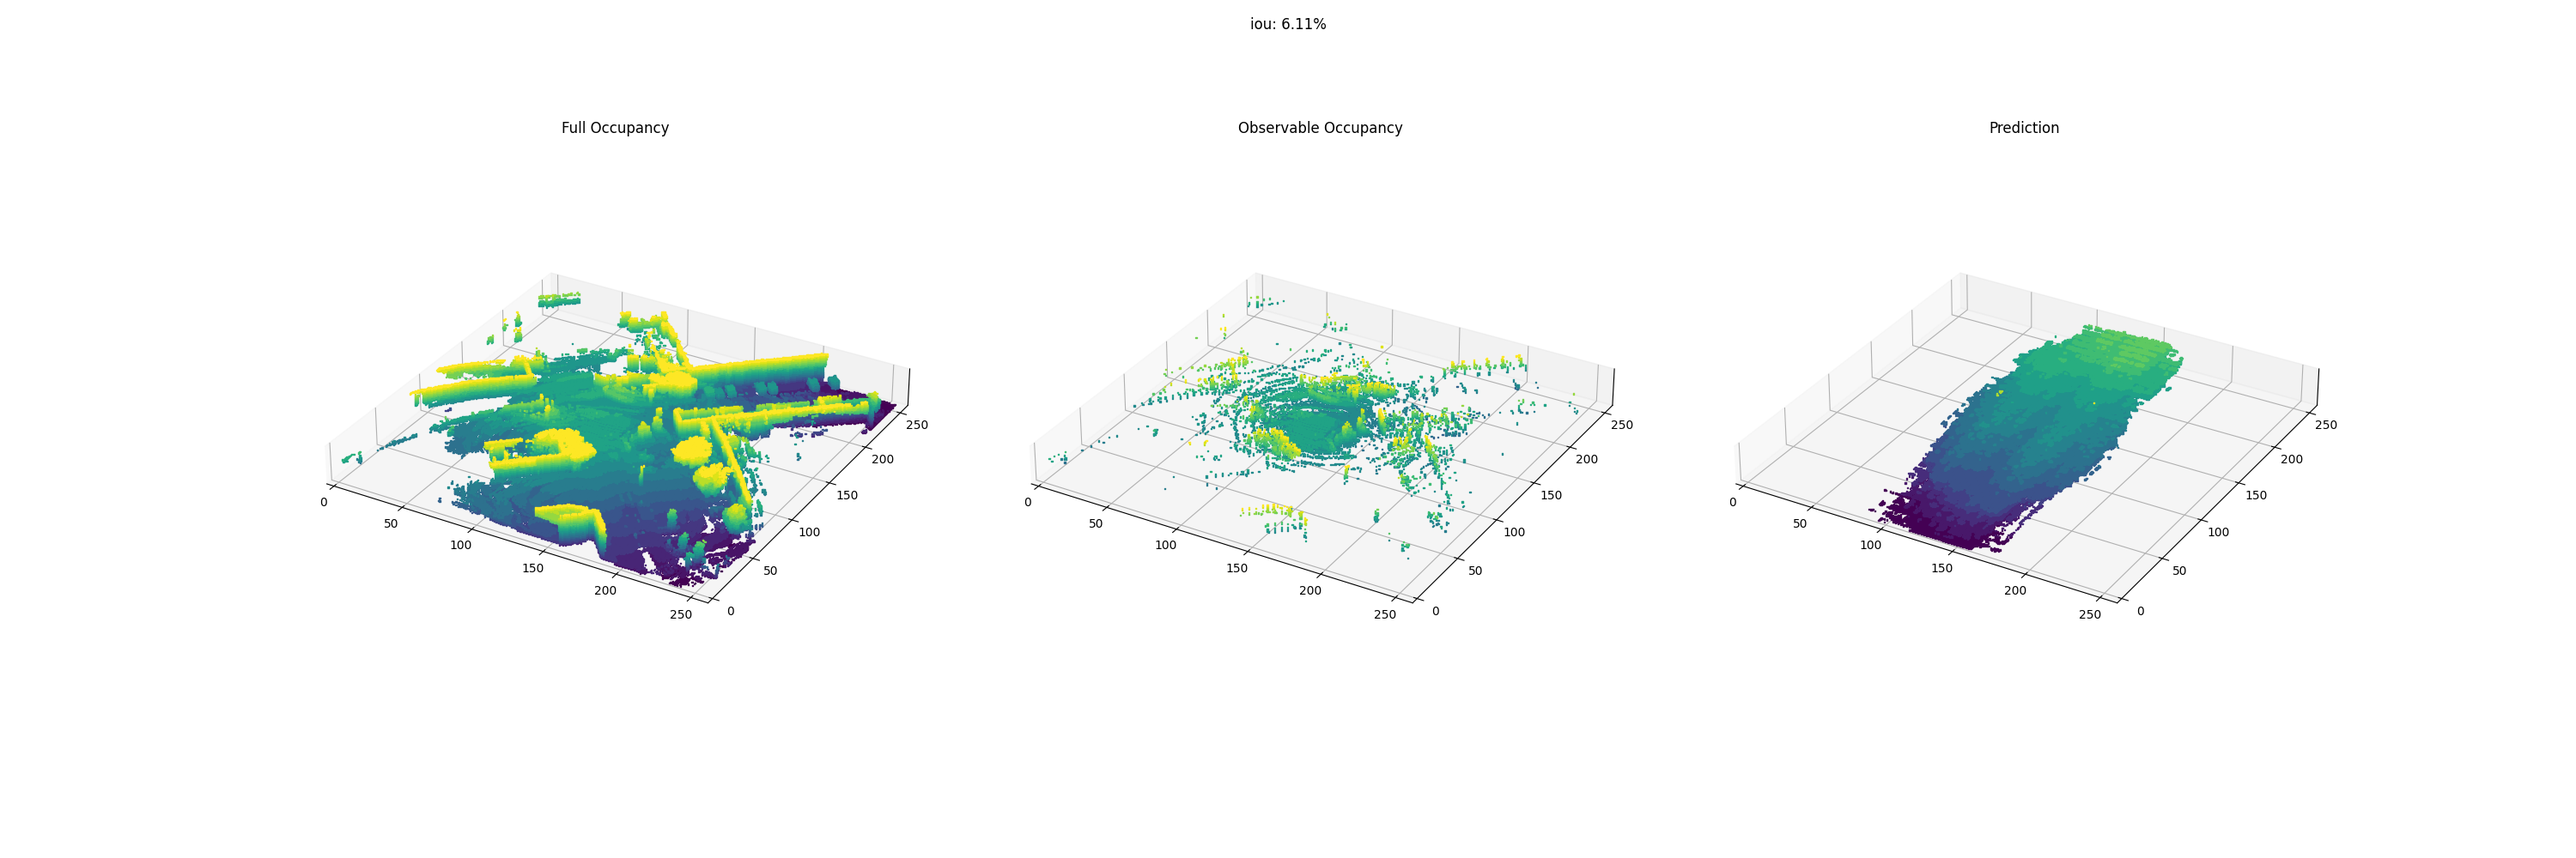
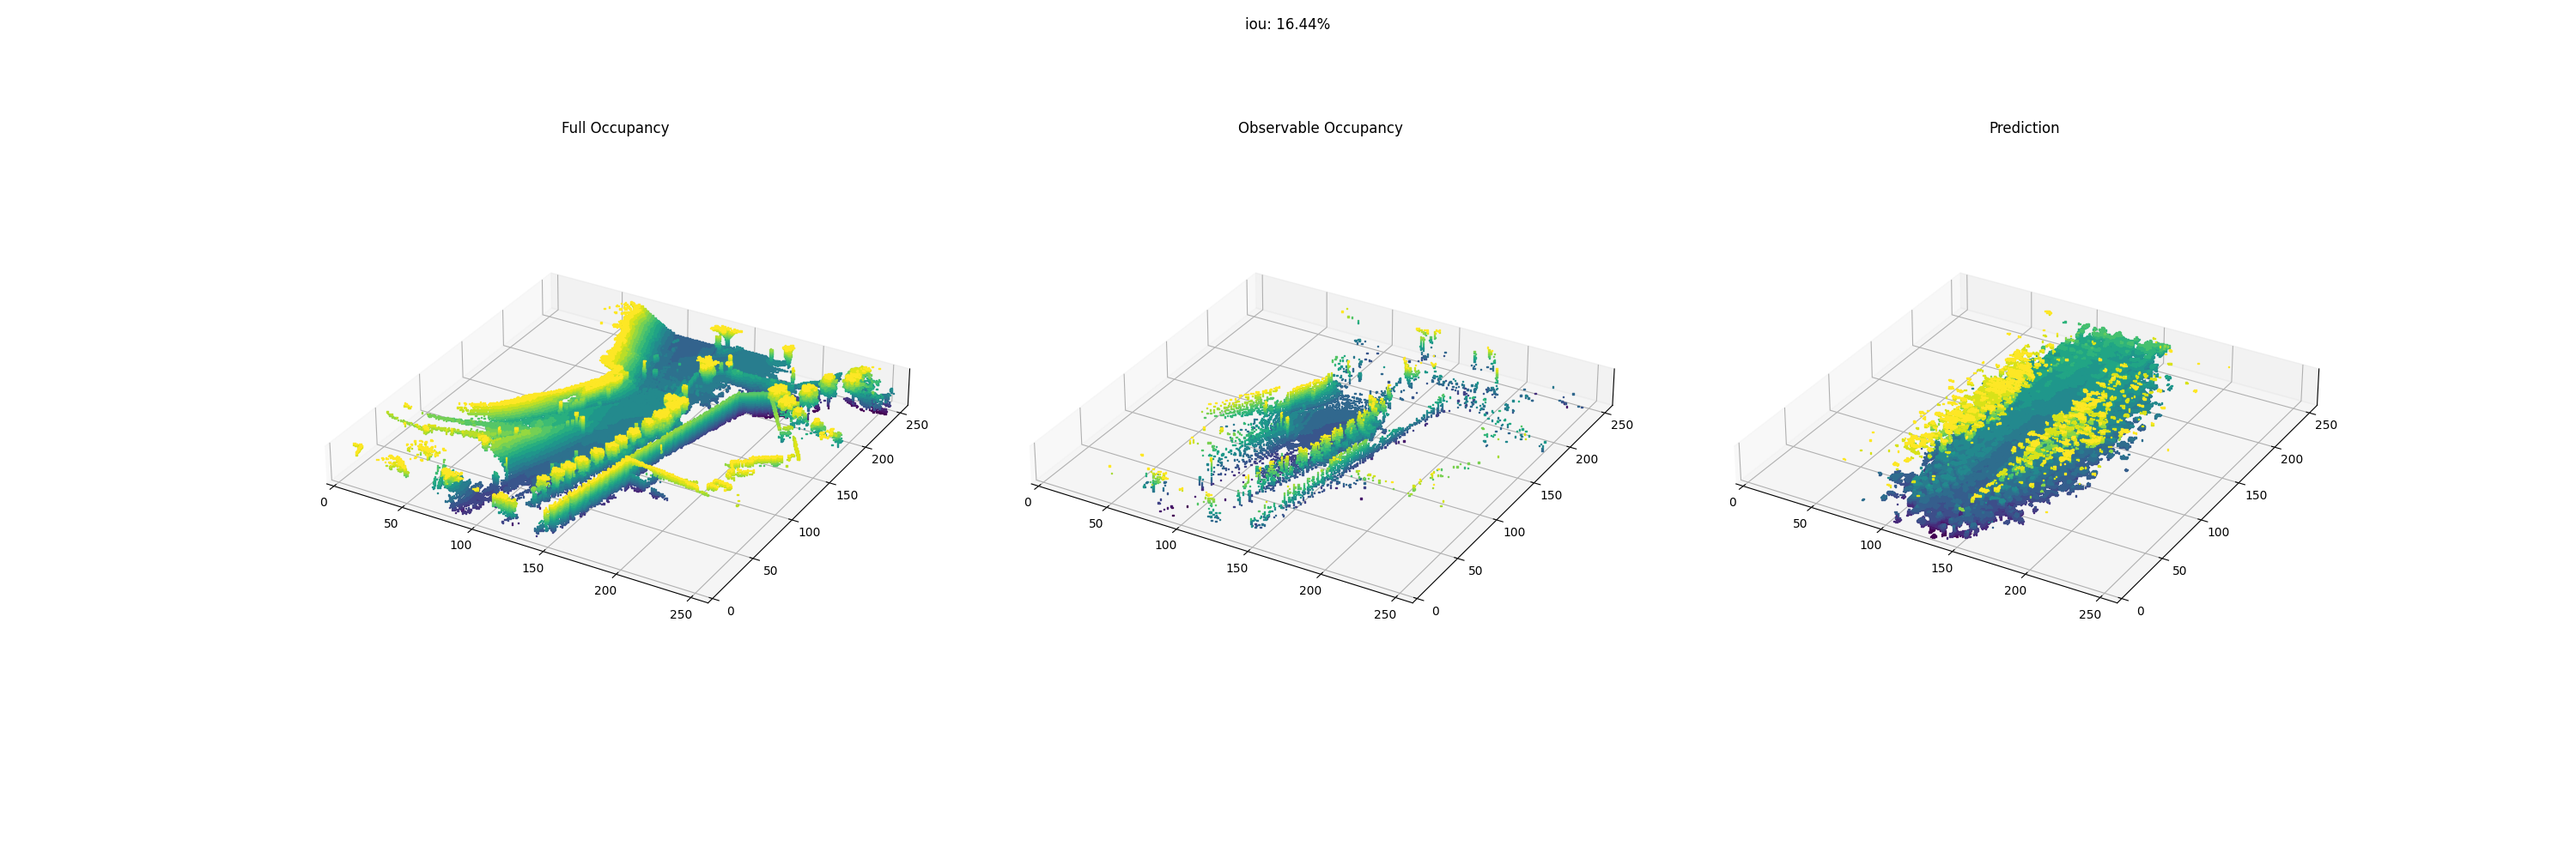
update

diff --git a/occupancy/pipelines/panoramic2voxel.py b/occupancy/pipelines/panoramic2voxel.py
@@ -284,36 +284,34 @@ class TransformerPlane2Polar(nn.Module):
         num_layers: int,
     ):
         super().__init__()
+        self.in_channels = in_channels
         self.hidden_size = hidden_size
-        self.depth_channels = radius_channels
-        self.in_conv = nn.Conv2d(in_channels, hidden_size * radius_channels, patch_size, stride=patch_size)
+        self.radius_channels = radius_channels
+        self.in_conv = nn.Conv2d(in_channels, in_channels * radius_channels, patch_size, stride=patch_size)
+        self.encoder = UnetAttentionEncoder3d(in_channels, hidden_size, 128, 2, 3, 128)
         self.transformer = Transformer(hidden_size, num_layers, hidden_size // 128, 128)
-        # self.out_norm = SpatialRMSNorm(hidden_size)
-        # self.nonlinear = nn.SiLU(True)
         self.out_conv = UnetAttention3d(hidden_size, out_channels, 1024, 512, 2, 2, 2, 128)
 
     def forward(self, multiview: Tensor, out_shape: Tuple[int, int, int]) -> Tensor:
         batch_size = multiview.shape[0]
         num_images = multiview.shape[1]
-        multiview = self.in_conv(multiview.flatten(0, 1))
+        multiview_polar = torch.cat(multiview.unbind(1), dim=-1)
+        multiview = self.in_conv(multiview)
         multiview = multiview.view(
             batch_size,
             num_images,
-            self.hidden_size,
-            self.depth_channels,
+            self.in_channels,
+            self.radius_channels,
             *multiview.shape[2:],
         )
-        multiview_polar = torch.cat(multiview.unbind(1), dim=-1)
+        multiview = self.encoder(multiview)
         multiview_polar = (
             self.transformer(multiview_polar.flatten(2).transpose(-1, -2)).transpose(-1, -2).view_as(multiview_polar)
         )
-        # multiview_polar = self.out_conv(multiview_polar)
 
         multiview_polar = ops.transforms.view_as_cartesian(
             multiview_polar, out_shape, "bilinear", align_corners=True  # to fix the geometry relationship
         )
-        # multiview_polar = self.out_norm(multiview_polar)
-        # multiview_polar = self.nonlinear(multiview_polar)
         multiview_polar = self.out_conv(multiview_polar)
         return multiview_polar
 
@@ -382,7 +380,7 @@ class MultiViewImageToVoxelPipeline(nn.Module):
         #    self.image_autoencoderkl.config.latent_channels, 8, 512, 8
         # )
         self.plane2polar = TransformerPlane2Polar(
-            4, self.voxel_encoder_latent_dim * 2, self.plane2polar_depth_channels, 8, 1024, 16
+            4, self.voxel_encoder_latent_dim, self.plane2polar_depth_channels, 8, 1024, 16
         )
         # self.decoder = UnetConditionalAttention3d(
         #    512,
@@ -492,9 +490,9 @@ class MultiViewImageToVoxelPipeline(nn.Module):
             with torch.no_grad():
                 input.images.data = self.image_augmentation(input.images.data.float()).type_as(input.images.data)
 
-        model_dist = self.prepare_multiview(input.images, (32, 32, 4))
-        model_dist = GaussianDistribution.from_latent(model_dist, latent_scale=self.voxel_autoencoderkl.latent_scale)
-        model_output = model_dist.sample()
+        model_output = self.prepare_multiview(input.images, (32, 32, 4))
+        #model_dist = GaussianDistribution.from_latent(model_dist, latent_scale=self.voxel_autoencoderkl.latent_scale)
+        #model_output = model_dist.sample()
 
         pred_occ = self.voxel_autoencoderkl.decode(model_output)
         with torch.no_grad():
@@ -505,7 +503,6 @@ class MultiViewImageToVoxelPipeline(nn.Module):
         pos_weight = self.influence_radial_weight(input.occupancy)
         loss = (
             F.binary_cross_entropy_with_logits(pred_occ, input.occupancy, pos_weight=pos_weight)
-            + 0.0001 * model_dist.kl_div(gt_occ_dist).mean()
         )
         return MultiViewImageToVoxelPipelineOutput(
             pred_occ,
